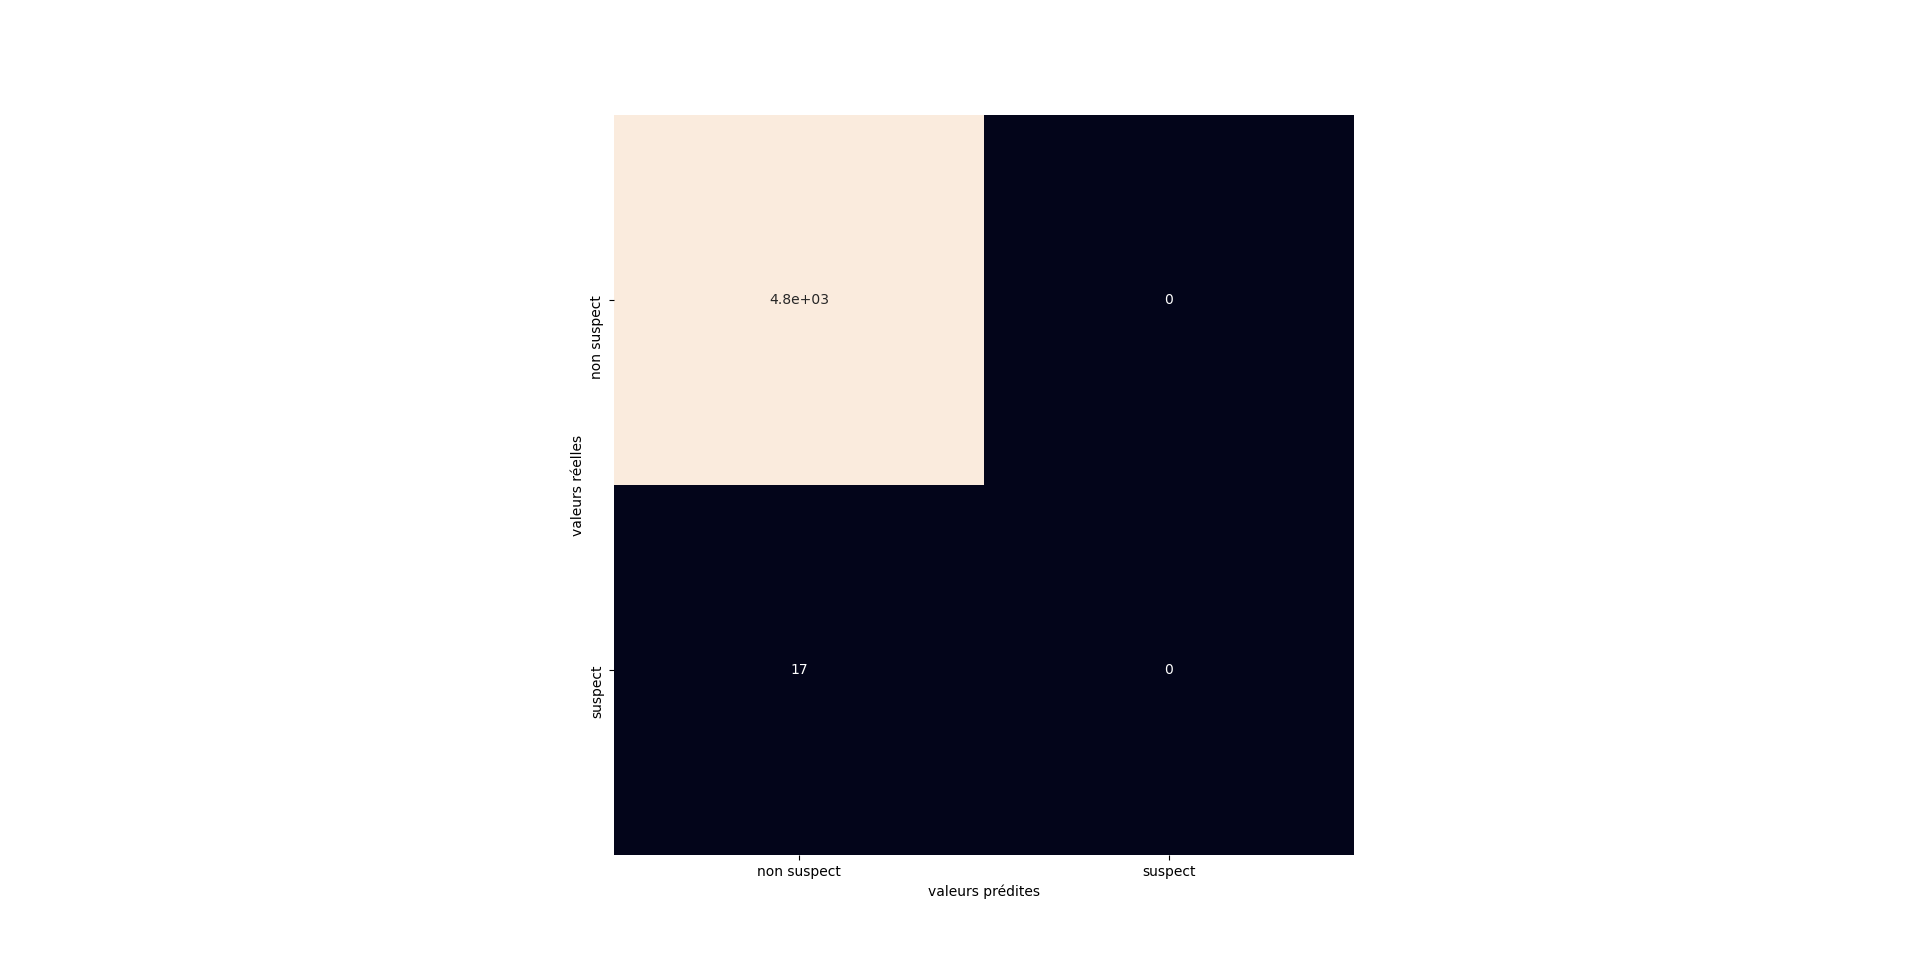
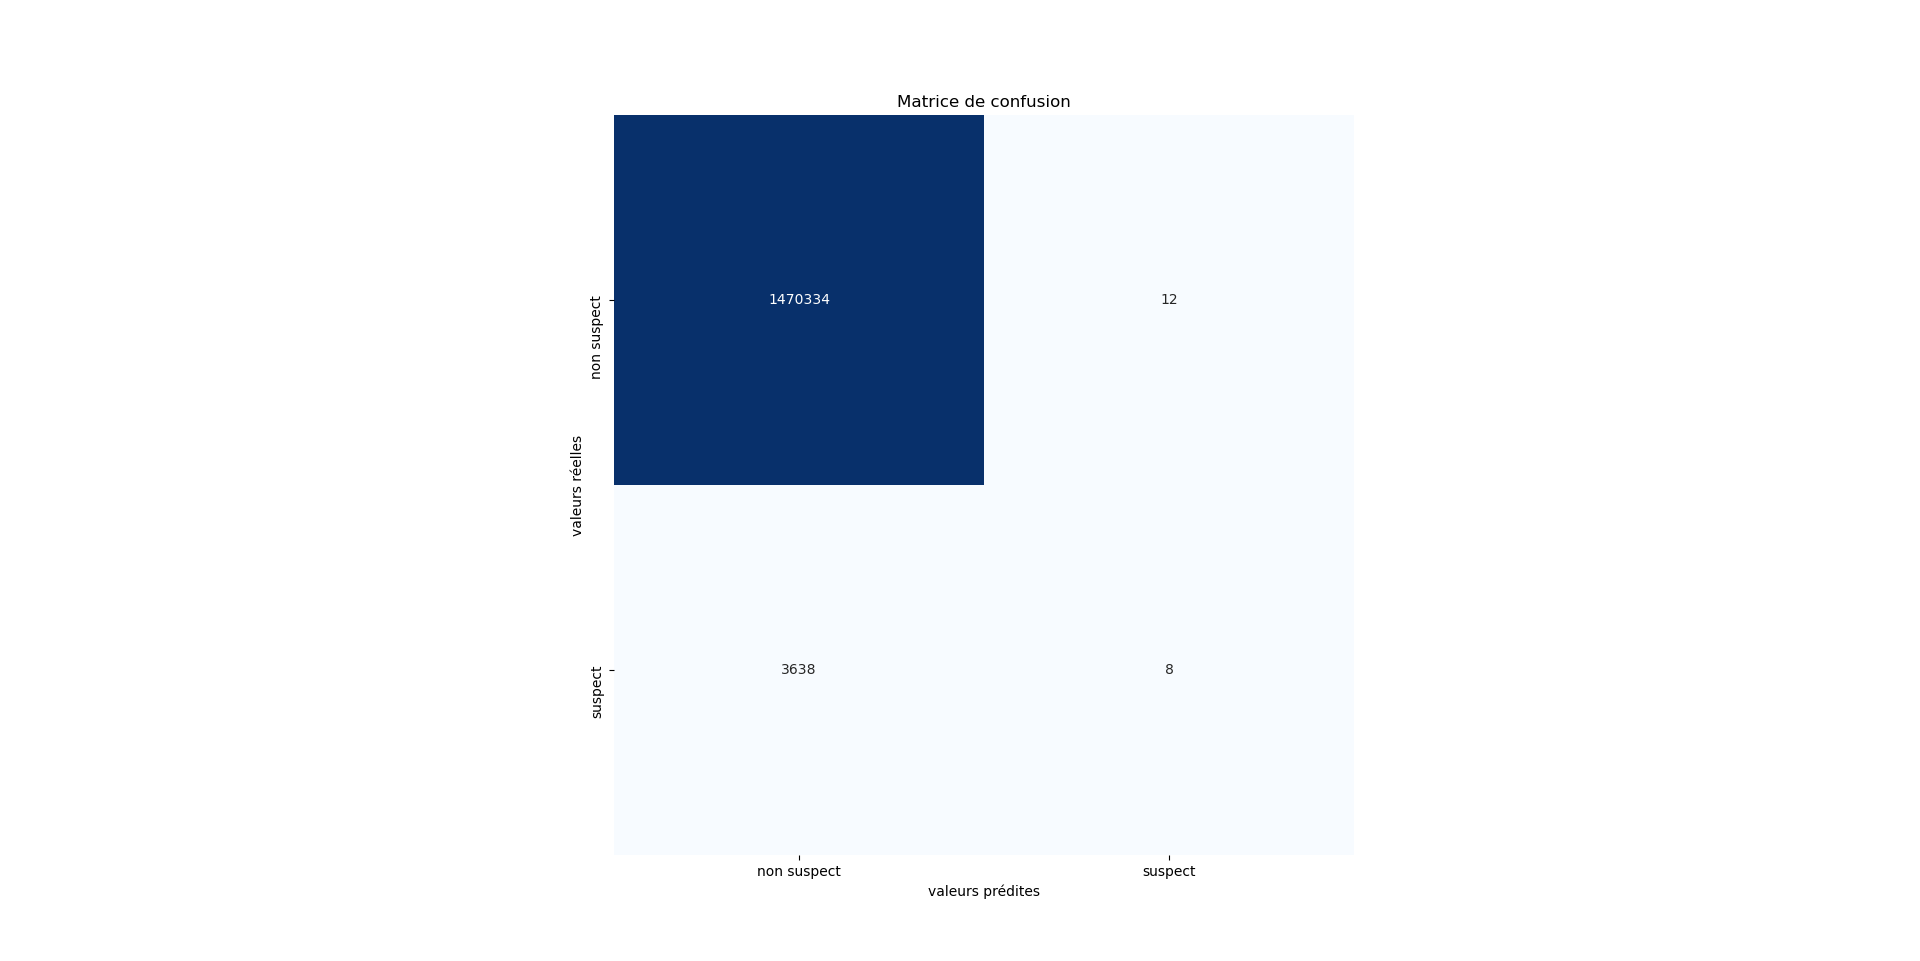
l

Changed region(s): [[0.3125, 0.0937, 0.7188, 0.9053]]

diff --git a/AcpTweet.py b/AcpTweet.py
@@ -50,11 +50,11 @@ composante_princ = acp.fit_transform(Z)
 n=Z.shape[0]
 eigval = acp.singular_values_**2/n
 
-plt.plot(np.arange(1,9+1),eigval)
-plt.title("Scree plot")
-plt.ylabel("Eigen values")
-plt.xlabel("Factor number")
-plt.show()
+# plt.plot(np.arange(1,9+1),eigval)
+# plt.title("Scree plot")
+# plt.ylabel("Eigen values")
+# plt.xlabel("Factor number")
+# plt.show()
 
 
 # =============================================================== #
@@ -103,10 +103,10 @@ for j in range(dimMatrice[1]):
 # graphique avec croisement deux à deux
 idx = np.random.randint(len(matriceDonnees), size=500)
 
-from pandas.plotting import scatter_matrix
-dataFrameDonnees = pd.DataFrame(data=matriceDonnees[idx,:], columns=["accountAge(days)", "agressivite","avg_hashtag","avg_url","mediumLength","rationFollowersFriends","tweet_per_day","verified","visibility"])
-pd.plotting.scatter_matrix(dataFrameDonnees,figsize=(9,9))
-plt.show()
+# from pandas.plotting import scatter_matrix
+# dataFrameDonnees = pd.DataFrame(data=matriceDonnees[idx,:], columns=["accountAge(days)", "agressivite","avg_hashtag","avg_url","mediumLength","rationFollowersFriends","tweet_per_day","verified","visibility"])
+# pd.plotting.scatter_matrix(dataFrameDonnees,figsize=(9,9))
+# plt.show()
 
 #calcul de l'inertie
 Iy=0
@@ -191,12 +191,12 @@ pourcent2 = np.sum(VaP[0:2])*100/Iacp
 #représentation de 100 000 individus pris aléatoirement sur ces 2 axes
 idx = np.random.randint(len(matriceDonnees), size=10000)
 
-itimg=1 
-plt.figure(itimg) #on explicite le numéro de la figure
-plt.plot(CP2[idx,0], CP2[idx,1],'.')
-plt.xlabel("axe1")
-plt.ylabel("axe2")
-plt.title("Représentation de 10 000 points sur les 2 composantes principales")
+# itimg=1 
+# plt.figure(itimg) #on explicite le numéro de la figure
+# plt.plot(CP2[idx,0], CP2[idx,1],'.')
+# plt.xlabel("axe1")
+# plt.ylabel("axe2")
+# plt.title("Représentation de 10 000 points sur les 2 composantes principales")
 
 
 # ===================== ACP 3 composantes ===================== #
@@ -245,41 +245,41 @@ CTAV2.index = attribut
 
 # Représentation des vecteurs de corrélation sur le cercle unité
 #trace le cercle
-import math 
-t=np.linspace(0,2*math.pi)
-x1=np.zeros(t.shape)
-y1=np.zeros(t.shape)
-for i in range(t.size):
-    #print(i)
-    x1[i]=math.cos(t[i])
-    y1[i]=math.sin(t[i])
-x2=np.linspace(-1,1)
-y2=np.zeros(t.shape)
-x3=np.zeros(t.shape)
-y3=np.linspace(-1,1)
-itimg=itimg+1
-fig = plt.figure(itimg)
-plt.plot(x1,y1)
-plt.plot(x2,y2)
-plt.plot(x3,y3)
-plt.xlabel("axis1")
-plt.ylabel("axis2")
+# import math 
+# t=np.linspace(0,2*math.pi)
+# x1=np.zeros(t.shape)
+# y1=np.zeros(t.shape)
+# for i in range(t.size):
+#     #print(i)
+#     x1[i]=math.cos(t[i])
+#     y1[i]=math.sin(t[i])
+# x2=np.linspace(-1,1)
+# y2=np.zeros(t.shape)
+# x3=np.zeros(t.shape)
+# y3=np.linspace(-1,1)
+# itimg=itimg+1
+# fig = plt.figure(itimg)
+# plt.plot(x1,y1)
+# plt.plot(x2,y2)
+# plt.plot(x3,y3)
+# plt.xlabel("axis1")
+# plt.ylabel("axis2")
 
 #ajoute les vecteurs
-for j in range(dimMatrice[1]):
-    plt.plot([0,McorrV2[j,0]],[0,McorrV2[j,1]],'b')
-    plt.text(McorrV2[j,0],McorrV2[j,1],attribut[j])
-plt.show() 
+# for j in range(dimMatrice[1]):
+#     plt.plot([0,McorrV2[j,0]],[0,McorrV2[j,1]],'b')
+#     plt.text(McorrV2[j,0],McorrV2[j,1],attribut[j])
+# plt.show() 
 
 # ===================== Inertie cumulée en fonction du nb de CP===================== #
 
 #Dispersion cumulées des CP en fonction du nombre de CP
-x=np.arange(0,VaP.size)+1 
-poucent_cumul=np.cumsum(VaP*100/np.sum(VaP)) 
-itimg=itimg+1 
-fig = plt.figure(itimg) 
-plt.plot(x,poucent_cumul) 
-plt.xlabel("nombre de variables") 
-plt.ylabel("pourcentage d'inertie cumulée")
-plt.show()
+# x=np.arange(0,VaP.size)+1 
+# poucent_cumul=np.cumsum(VaP*100/np.sum(VaP)) 
+# itimg=itimg+1 
+# fig = plt.figure(itimg) 
+# plt.plot(x,poucent_cumul) 
+# plt.xlabel("nombre de variables") 
+# plt.ylabel("pourcentage d'inertie cumulée")
+# plt.show()
 

diff --git a/MLSup.py b/MLSup.py
@@ -40,10 +40,13 @@ from sklearn.metrics import confusion_matrix
 C = 0.01
 noyau = 'linear'
 svm = SVC(C,noyau)
+print("svm créé")
 
 svm.fit(X_train, y_train)
+print("apprentissage fait")
 
 y_pred_test = svm.predict(X_test)
+print("prédiction faite")
 
 # y_pred_test = grille.predict(X_test)
 erreur_test = 1.0 - metrics.accuracy_score(y_test, y_pred_test)
@@ -55,12 +58,13 @@ print(conf)
 
 import matplotlib.pyplot as plt
 plt.figure("Confusion matrix")
-plt.xlabel('valeurs prédites')
-plt.ylabel('valeurs réelles')
+
 
 import seaborn as sns
-sns.heatmap(conf, square=True, annot=True, cbar=False, xticklabels=["non suspect","suspect"], yticklabels=["non suspect","suspect"])
-
+sns.heatmap(conf, square=True, annot=True, cbar=False, xticklabels=["non suspect","suspect"], yticklabels=["non suspect","suspect"], cmap ="Blues", fmt='d')
+plt.xlabel('valeurs prédites')
+plt.ylabel('valeurs réelles')
+plt.title("Matrice de confusion")
 plt.show()
 
 
@@ -68,7 +72,7 @@ plt.show()
 # Représentation dans le plan
 from AcpTweet import CP2
 
-X_train_ACP, X_test_ACP, y_train_ACP, y_test_ACP = train_test_split(CP2, etiquettes, test_size=10000, train_size=100000, random_state=42)
+X_train_ACP, X_test_ACP, y_train_ACP, y_test_ACP = train_test_split(CP2, etiquettes, test_size=10000, train_size=0.3, random_state=42)
 
 # idx = np.random.randint(len(matriceDonnees), size=1000)
 # sample_etiquettes = np.array(etiquettes)[idx]
@@ -88,6 +92,7 @@ y_min, y_max = X_test_ACP[:,1].min()-1, X_test_ACP[:,1].max()+1
 xx,yy = np.meshgrid(np.arange(x_min,x_max,h), np.arange(y_min,y_max,h))
 
 svm.fit(X_train_ACP,y_train_ACP)
+print("apprentissage fait")
 
 Z_origin = svm.predict(np.c_[xx.ravel(), yy.ravel()])
 Z = Z_origin.reshape(xx.shape)
